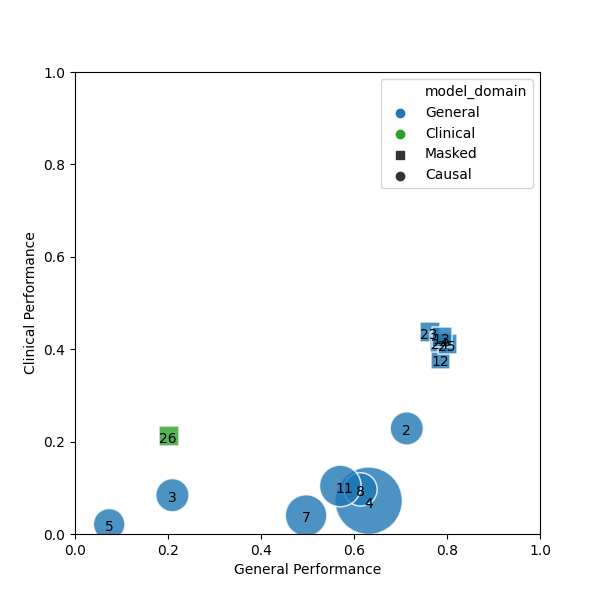
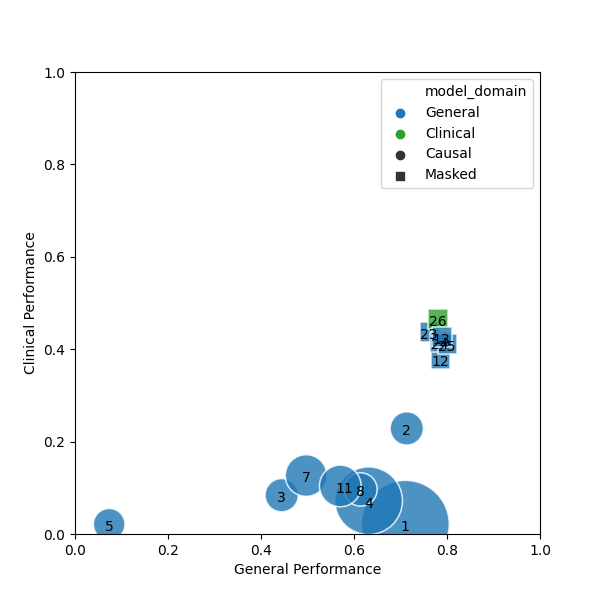
add bsc-es instead of galen in res

diff --git a/tabs_and_plots/results_table.tex b/tabs_and_plots/results_table.tex
@@ -6,19 +6,19 @@
 \midrule
  \multicolumn{17}{l}{\textit{Few-shot approaches}} \\
 \midrule
-\multirow{11}{*}{\rotatebox[origin=c]{90}{Causal}} & 1 & LLAMA-70B & 0.728 & 0.721 & 0.312 & 0.309 & - & 0.74 & 0.4 & - & 0.201 & 0.312 & 0.805 & 0.616 & - & - \\
+\multirow{11}{*}{\rotatebox[origin=c]{90}{Causal}} & 1 & LLAMA-70B & 0.728 & 0.721 & 0.312 & 0.309 & - & 0.74 & 0.4 & 0.483 & 0.201 & 0.312 & 0.805 & 0.616 & 0.021 & - \\
  & 2 & Mistral-7B & 0.754 & 0.645 & 0.488 & 0.291 & 0.395 & 0.727 & 0.428 & 0.59 & 0.229 & 0.333 & 0.72 & 0.707 & 0.083 & 0.374 \\
- & 3 & BLOOM-7B1 & 0.524 & 0.557 & 0.279 & 0.113 & - & 0.136 & 0.206 & 0.32 & 0.197 & 0.12 & 0.0 & 0.419 & 0.051 & 0.117 \\
+ & 3 & BLOOM-7B1 & 0.524 & 0.557 & 0.279 & 0.113 & 0.151 & 0.136 & 0.206 & 0.32 & 0.197 & 0.12 & 0.47 & 0.419 & 0.051 & 0.117 \\
  & 4 & Falcon-40B & 0.686 & 0.708 & 0.28 & 0.279 & - & 0.662 & - & 0.378 & - & 0.283 & 0.72 & 0.543 & 0.072 & - \\
  & 5 & GPT-J-6B & 0.521 & 0.493 & 0.167 & 0.179 & - & 0.423 & - & 0.334 & 0.08 & 0.177 & 0.005 & 0.142 & 0.021 & - \\
  & 6 & OPT-66B & 0.608 & 0.495 & - & 0.157 & - & 0.624 & 0.406 & - & 0.206 & 0.283 & - & - & - & - \\
- & 7 & Vicuna-13B & 0.657 & 0.708 & 0.355 & 0.236 & - & 0.677 & - & 0.399 & - & 0.326 & 0.744 & 0.25 & 0.04 & - \\
+ & 7 & Vicuna-13B & 0.657 & 0.708 & 0.355 & 0.236 & - & 0.677 & 0.35 & 0.399 & - & 0.326 & 0.744 & 0.25 & 0.04 & 0.213 \\
  & 8 & Vicuna-7B & 0.594 & 0.489 & 0.259 & 0.147 & 0.172 & 0.591 & 0.277 & 0.439 & 0.152 & 0.296 & 0.659 & 0.569 & 0.042 & 0.151 \\
  & 9 & BioMedLM & - & 0.223 & 0.024 & - & - & - & - & - & - & 0.019 & - & - & - & - \\
  & 10 & Medalpaca-7B & - & 0.558 & - & 0.191 & - & - & - & - & 0.161 & 0.224 & - & - & - & - \\
  & 11 & Vigogne-13B & 0.593 & 0.655 & 0.252 & 0.176 & - & 0.515 & 0.25 & 0.464 & 0.099 & 0.142 & 0.58 & 0.561 & 0.01 & 0.198 \\
 \midrule
-\multirow{16}{*}{\rotatebox[origin=c]{90}{Masked}} & 12 & mBERT & 0.768 & 0.804 & 0.624 & 0.378 & 0.401 & 0.801 & 0.728 & 0.741 & 0.588 & 0.428 & 0.812 & 0.76 & 0.324 & 0.432 \\
+\multirow{17}{*}{\rotatebox[origin=c]{90}{Masked}} & 12 & mBERT & 0.768 & 0.804 & 0.624 & 0.378 & 0.401 & 0.801 & 0.728 & 0.741 & 0.588 & 0.428 & 0.812 & 0.76 & 0.324 & 0.432 \\
  & 13 & XLM-RoBERTa-large & 0.786 & 0.826 & 0.637 & 0.462 & 0.471 & 0.811 & 0.781 & 0.762 & 0.629 & 0.531 & 0.797 & 0.781 & 0.325 & 0.528 \\
  & 14 & BERT-large & 0.776 & 0.835 & 0.626 & 0.435 & 0.422 & - & - & - & - & - & - & - & - & - \\
  & 15 & RoBERTa-large & 0.79 & 0.862 & 0.626 & 0.462 & 0.552 & - & - & - & - & - & - & - & - & - \\
@@ -32,8 +32,9 @@
  & 23 & BETO & - & - & - & - & - & - & - & - & - & - & 0.794 & 0.732 & 0.352 & 0.522 \\
  & 24 & PatanaBERT & - & - & - & - & - & - & - & - & - & - & 0.802 & 0.769 & 0.343 & 0.487 \\
  & 25 & TulioBERT & - & - & - & - & - & - & - & - & - & - & 0.804 & 0.798 & 0.34 & 0.482 \\
- & 26 & BETO-Galen & - & - & - & - & - & - & - & - & - & - & 0.149 & 0.254 & 0.182 & 0.241 \\
- & 27 & BSC-BioEHR & - & - & - & - & - & - & - & - & - & - & - & - & 0.354 & - \\
+ & 26 & BSC-BioEHR & - & - & - & - & - & - & - & - & - & - & 0.804 & 0.758 & 0.354 & 0.578 \\
+ & 27 & BETO-Galen & - & - & - & - & - & - & - & - & - & - & - & - & - & - \\
+ & 28 & BSC-Bio & - & - & - & - & - & - & - & - & - & - & - & - & - & - \\
 \midrule
 \midrule
 \multicolumn{17}{l}{\textit{Masked fully-supervised (skyline)}} \\

diff --git a/tabs_and_plots/model_names_table.tex b/tabs_and_plots/model_names_table.tex
@@ -14,9 +14,8 @@
  & Vicuna-7B & 7.0B & - \\
  & Vigogne-13B & 13.0B & - \\
 \midrule
-\multirow{16}{*}{\rotatebox[origin=c]{90}{Masked}} & BERT-large & 345.0M & - \\
+\multirow{15}{*}{\rotatebox[origin=c]{90}{Masked}} & BERT-large & 345.0M & - \\
  & BETO & 110.0M & - \\
- & BETO-Galen & 110.0M & - \\
  & BSC-BioEHR & 110.0M & - \\
  & Bio\_ClinicalBERT & 110.0M & - \\
  & CamemBERT-bio & 110.0M & - \\
